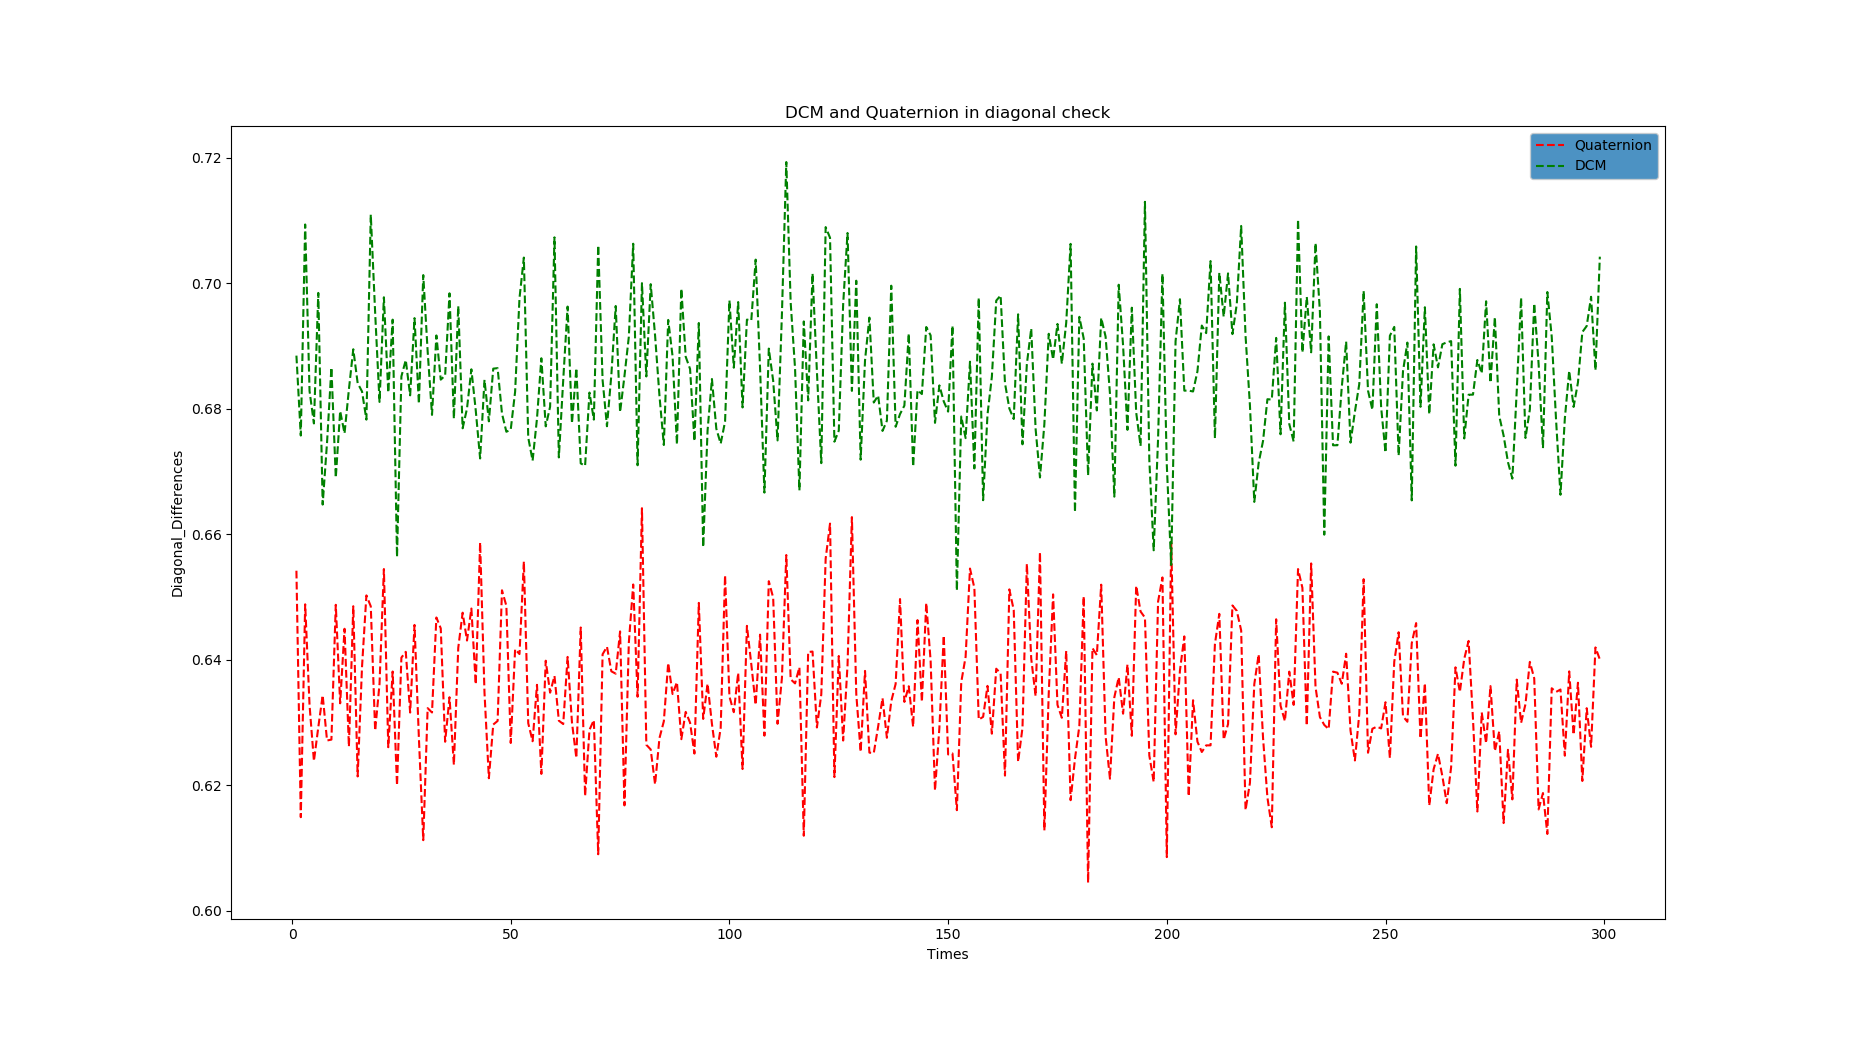
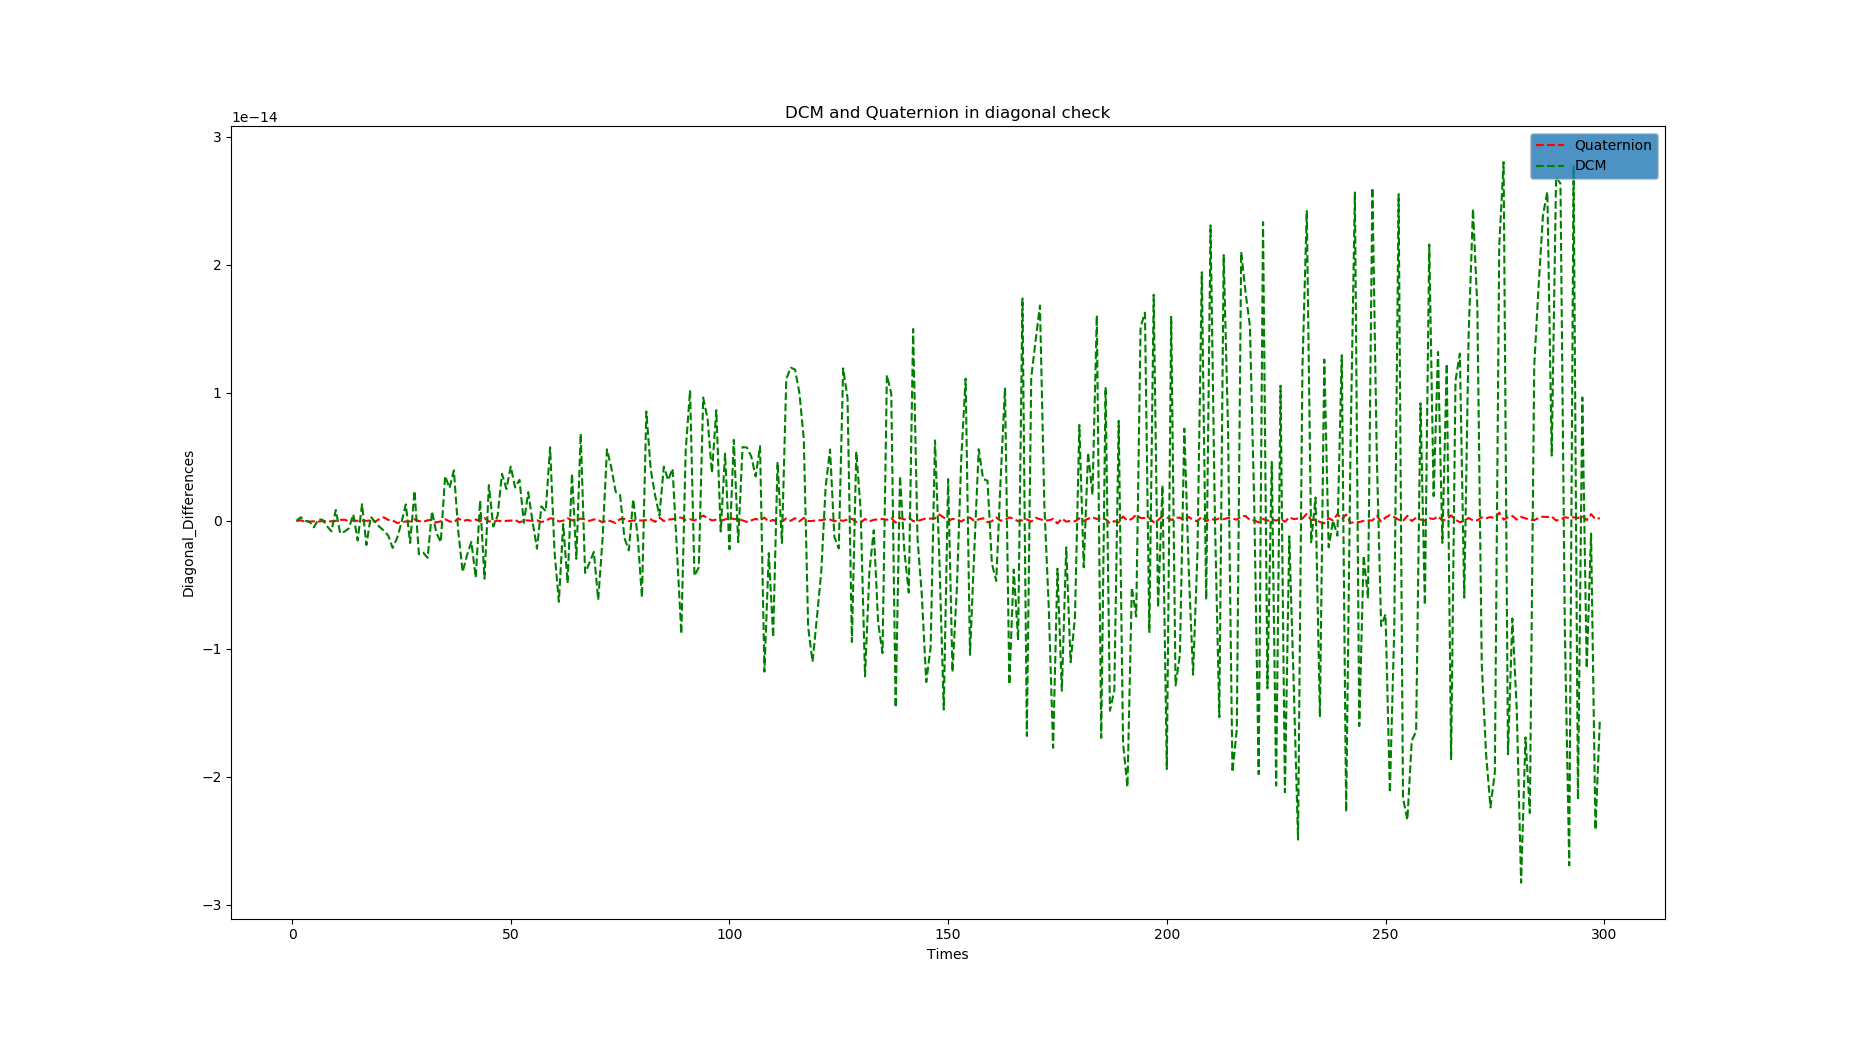
more plots first version

diff --git a/functions.py b/functions.py
@@ -276,18 +276,18 @@ def Quaternion_DCM_rotation_precision(N, R, x_theta, y_theta, z_theta):
         MAXDIFF_DCM.append(maxdiff_DCM)
     return X1, X2, MEANDIFF_Q, MINDIFF_Q, MAXDIFF_Q, MEANDIFF_DCM, MINDIFF_Q, MAXDIFF_Q
 
-def DCM_diagonal_check(aDCM):
+def DCM_diagonal_check(aDCM, bDCM):
     '''
     calculate differences  between aDCM disgonal and ones, mean of euclidean distance 
     '''
-    diff = (math.sqrt(pow(aDCM[0][0] - 1, 2) + pow(aDCM[1][1] - 1, 2) + pow(aDCM[2][2] - 1, 2))) / 3
+    diff = (aDCM[0][0] + aDCM[1][1] + aDCM[2][2] - bDCM[0][0] - bDCM[1][1] - bDCM[2][2]) / 3
     return diff
 
-def DCM_off_diagonal_check(aDCM):
+def DCM_off_diagonal_check(aDCM, bDCM):
     '''
     calculate differences between aDCM off-diagonal and zeros
     '''
-    diff = math.sqrt(pow(aDCM[0][1], 2) + pow(aDCM[0][2], 2) + pow(aDCM[1][0], 2) + pow(aDCM[1][2], 2) + pow(aDCM[2][0], 2) + pow(aDCM[2][1], 2)) / 6
+    diff = (aDCM[0][1] + aDCM[0][2] + aDCM[1][0] + aDCM[1][2] + aDCM[2][0] + aDCM[2][1]- (bDCM[0][1] + bDCM[0][2] + bDCM[1][0] + bDCM[1][2] + bDCM[2][0] + bDCM[2][1])) / 6
     return diff
 
 def DCM_orthonormality_check(aDCM, direction):
@@ -299,15 +299,15 @@ def DCM_orthonormality_check(aDCM, direction):
         direction: define if columns or rows in calculation, 0 is columns product, 1 is rows product'
     '''
     if direction == 0:
-        dot_product01 = [aDCM[0][0] * aDCM[0][1], aDCM[1][0] * aDCM[1][1], aDCM[2][0] * aDCM[2][1]]
-        dot_product12 = [aDCM[0][1] * aDCM[0][2], aDCM[1][1] * aDCM[1][2], aDCM[2][1] * aDCM[2][2]]
-        dot_product02 = [aDCM[0][0] * aDCM[0][2], aDCM[1][0] * aDCM[1][2], aDCM[2][0] * aDCM[2][2]]
+        dot_product01 = aDCM[0][0] * aDCM[0][1] + aDCM[1][0] * aDCM[1][1] + aDCM[2][0] * aDCM[2][1]
+        dot_product12 = aDCM[0][1] * aDCM[0][2] + aDCM[1][1] * aDCM[1][2] + aDCM[2][1] * aDCM[2][2]
+        dot_product02 = aDCM[0][0] * aDCM[0][2] + aDCM[1][0] * aDCM[1][2] + aDCM[2][0] * aDCM[2][2]
     if direction == 1:
-        dot_product01 = [aDCM[0][0] * aDCM[1][0], aDCM[0][1] * aDCM[1][1], aDCM[0][2] * aDCM[1][2]]
-        dot_product12 = [aDCM[1][0] * aDCM[2][0], aDCM[1][1] * aDCM[2][1], aDCM[1][2] * aDCM[2][2]]
-        dot_product02 = [aDCM[0][0] * aDCM[2][0], aDCM[0][1] * aDCM[2][1], aDCM[0][2] * aDCM[2][2]]
-    
-    L = math.sqrt(pow(dot_product01[0], 2) + pow(dot_product01[1], 2) + pow(dot_product01[2], 2)) + math.sqrt(pow(dot_product12[0], 2) + pow(dot_product12[1], 2) + pow(dot_product12[2], 2)) + math.sqrt(pow(dot_product02[0], 2) + pow(dot_product02[1], 2) + pow(dot_product02[2], 2))
+        dot_product01 = aDCM[0][0] * aDCM[1][0] + aDCM[0][1] * aDCM[1][1] + aDCM[0][2] * aDCM[1][2]
+        dot_product12 = aDCM[1][0] * aDCM[2][0] + aDCM[1][1] * aDCM[2][1] + aDCM[1][2] * aDCM[2][2]
+        dot_product02 = aDCM[0][0] * aDCM[2][0] + aDCM[0][1] * aDCM[2][1] + aDCM[0][2] * aDCM[2][2]
+        
+    L = math.sqrt(pow(dot_product01, 2) + pow(dot_product12, 2) + pow(dot_product02, 2))
     return L
 
 def DCM_Quaternion_rotator_check(N, R, x_theta, y_theta, z_theta):
@@ -352,30 +352,43 @@ def DCM_Quaternion_rotator_check(N, R, x_theta, y_theta, z_theta):
 #            
 #            DCM = m3 @ m2 @ m1
             DCM = computeDCM_angle(x, y ,z)
+            DCM_zero = computeDCM_angle(x, y ,z)
+            print(DCM)
             Q = DCMtoQuaternion(DCM)
+            Q_zero = DCMtoQuaternion(DCM_zero)
+            print(Q_zero)
             steps = n
             m1 = computeDCM(x_theta / steps, [1, 0, 0])
             m2 = computeDCM(y_theta / steps, [0, 1, 0])
             m3 = computeDCM(z_theta / steps, [0, 0, 1])
+            m4 = computeDCM(-y_theta / steps, [0, 1, 0])
             q1 = Quaternion(math.cos(x_theta / (2 * steps)), math.sin(x_theta / (2 * steps)), 0, 0).norm_q()
             q2 = Quaternion(math.cos(x_theta / (2 * steps)), 0, math.sin(x_theta / (2 * steps)), 0).norm_q()
             q3 = Quaternion(math.cos(x_theta / (2 * steps)), 0, 0, math.sin(x_theta / (2 * steps))).norm_q()
+            q4 = Quaternion(math.cos(-y_theta / (2 * steps)), 0, math.sin(-y_theta / (2 * steps)), 0).norm_q()
             for i in range(0, steps):
-                DCM = m1 @ DCM
+                DCM = DCM @ m1
                 Q = (q1 * Q).norm_q()
             for j in range(0, steps):
-                DCM = m2 @ DCM
+                DCM = DCM @ m2
                 Q = (q2 * Q).norm_q()
             for k in range(0, steps):
-                DCM = m3 @ DCM
+                DCM = DCM @ m3
                 Q = (q3 * Q).norm_q()
+            for k in range(0, steps):
+                DCM = DCM @ m4
+                Q = (q4 * Q).norm_q()
             Q = Q.toDCM()
-            diagonal_check_q += DCM_diagonal_check(Q)
-            off_diagonal_check_q += DCM_off_diagonal_check(Q)
+            Q_zero = Q_zero.toDCM()
+            print("------------------")
+            print(DCM)
+            print(Q)
+            diagonal_check_q += DCM_diagonal_check(Q, Q_zero)
+            off_diagonal_check_q += DCM_off_diagonal_check(Q, Q_zero)
             orthonormality_col_q += DCM_orthonormality_check(Q, 0)
             orthonormality_row_q += DCM_orthonormality_check(Q, 1)
-            diagonal_check_dcm += DCM_diagonal_check(DCM)
-            off_diagonal_check_dcm += DCM_off_diagonal_check(DCM)
+            diagonal_check_dcm += DCM_diagonal_check(DCM, DCM_zero)
+            off_diagonal_check_dcm += DCM_off_diagonal_check(DCM, DCM_zero)
             orthonormality_col_dcm += DCM_orthonormality_check(DCM, 0)
             orthonormality_row_dcm += DCM_orthonormality_check(DCM, 1)
         X1.append(1.0 / n)

diff --git a/Quaternion_test.py b/Quaternion_test.py
@@ -178,10 +178,10 @@ legend = ax.legend(loc = 1)
 legend.get_frame().set_facecolor('C0')
 plt.show()
 fig.set_size_inches(18.5, 10.5)
-fig.savefig('DCM_Quaternion_diagonal_check_biubiubiu.png', dpi = 100)
+fig.savefig('DCM_Quaternion_diagonal_check.png', dpi = 100)
 
 fig, ax = plt.subplots()
-ax.plot(X2, OFF_DIAGONAL_CHECK_Q, 'o', label = 'Quaternion', color = 'red')
+ax.plot(X2, OFF_DIAGONAL_CHECK_Q, 'k--', label = 'Quaternion', color = 'red')
 ax.plot(X2, OFF_DIAGONAL_CHECK_DCM, 'k--', label = 'DCM', color = 'green')
 ax.set_xlabel("Times")
 ax.set_ylabel("Off_Diagonal_Differences")
@@ -190,7 +190,7 @@ legend = ax.legend(loc = 2)
 legend.get_frame().set_facecolor('C0')
 plt.show()
 fig.set_size_inches(18.5, 10.5)
-fig.savefig('DCM_Quaternion_off_diagonal_check_biubiubiu.png', dpi = 100)
+fig.savefig('DCM_Quaternion_off_diagonal_check.png', dpi = 100)
 
 fig, ax = plt.subplots()
 ax.plot(X2, ORTHONORMALITY_ROW_Q, 'o', label = 'Quaternion', color = 'red')
@@ -202,7 +202,7 @@ legend = ax.legend(loc = 2)
 legend.get_frame().set_facecolor('C0')
 plt.show()
 fig.set_size_inches(18.5, 10.5)
-fig.savefig('DCM_Quaternion_orthonormality_row_check_biubiubiu.png', dpi = 100)
+fig.savefig('DCM_Quaternion_orthonormality_row_check.png', dpi = 100)
 
 fig, ax = plt.subplots()
 ax.plot(X2, ORTHONORMALITY_COL_Q, 'o', label = 'Quaternion', color = 'red')
@@ -214,7 +214,7 @@ legend = ax.legend(loc = 2)
 legend.get_frame().set_facecolor('C0')
 plt.show()
 fig.set_size_inches(18.5, 10.5)
-fig.savefig('DCM_Quaternion_orthonormality_col_check_biubiubiu.png', dpi = 100)
+fig.savefig('DCM_Quaternion_orthonormality_col_check.png', dpi = 100)
 
 
 (X1, X2, DIFF_CHECK_Q, DIFF_CHECK_DCM) = f.DCM_Quaternion_rotator_check2(300, 100, np.pi / 2, np.pi / 2, np.pi / 2)
@@ -229,7 +229,7 @@ legend = ax.legend(loc = 2, bbox_to_anchor = (1.05, 1.0),borderaxespad = 0.)
 legend.get_frame().set_facecolor('C0')
 plt.show()
 fig.set_size_inches(18.5, 10.5)
-fig.savefig('DCM_Quaternion_ed_biubiubiu.png', dpi = 100)
+fig.savefig('DCM_Quaternion_ed.png', dpi = 100)
 
 (X1, X2, DIFF_CHECK_Q, DIFF_CHECK_DCM) = f.DCM_Quaternion_rotator_check3(300, 100, np.pi / 2, np.pi / 2, np.pi / 2)
 
@@ -243,4 +243,4 @@ legend = ax.legend(loc = 2, bbox_to_anchor = (1.05, 1.0),borderaxespad = 0.)
 legend.get_frame().set_facecolor('C0')
 plt.show()
 fig.set_size_inches(18.5, 10.5)
-fig.savefig('DCM_Quaternion_ad_biubiubiu.png', dpi = 100)
+fig.savefig('DCM_Quaternion_ad.png', dpi = 100)
